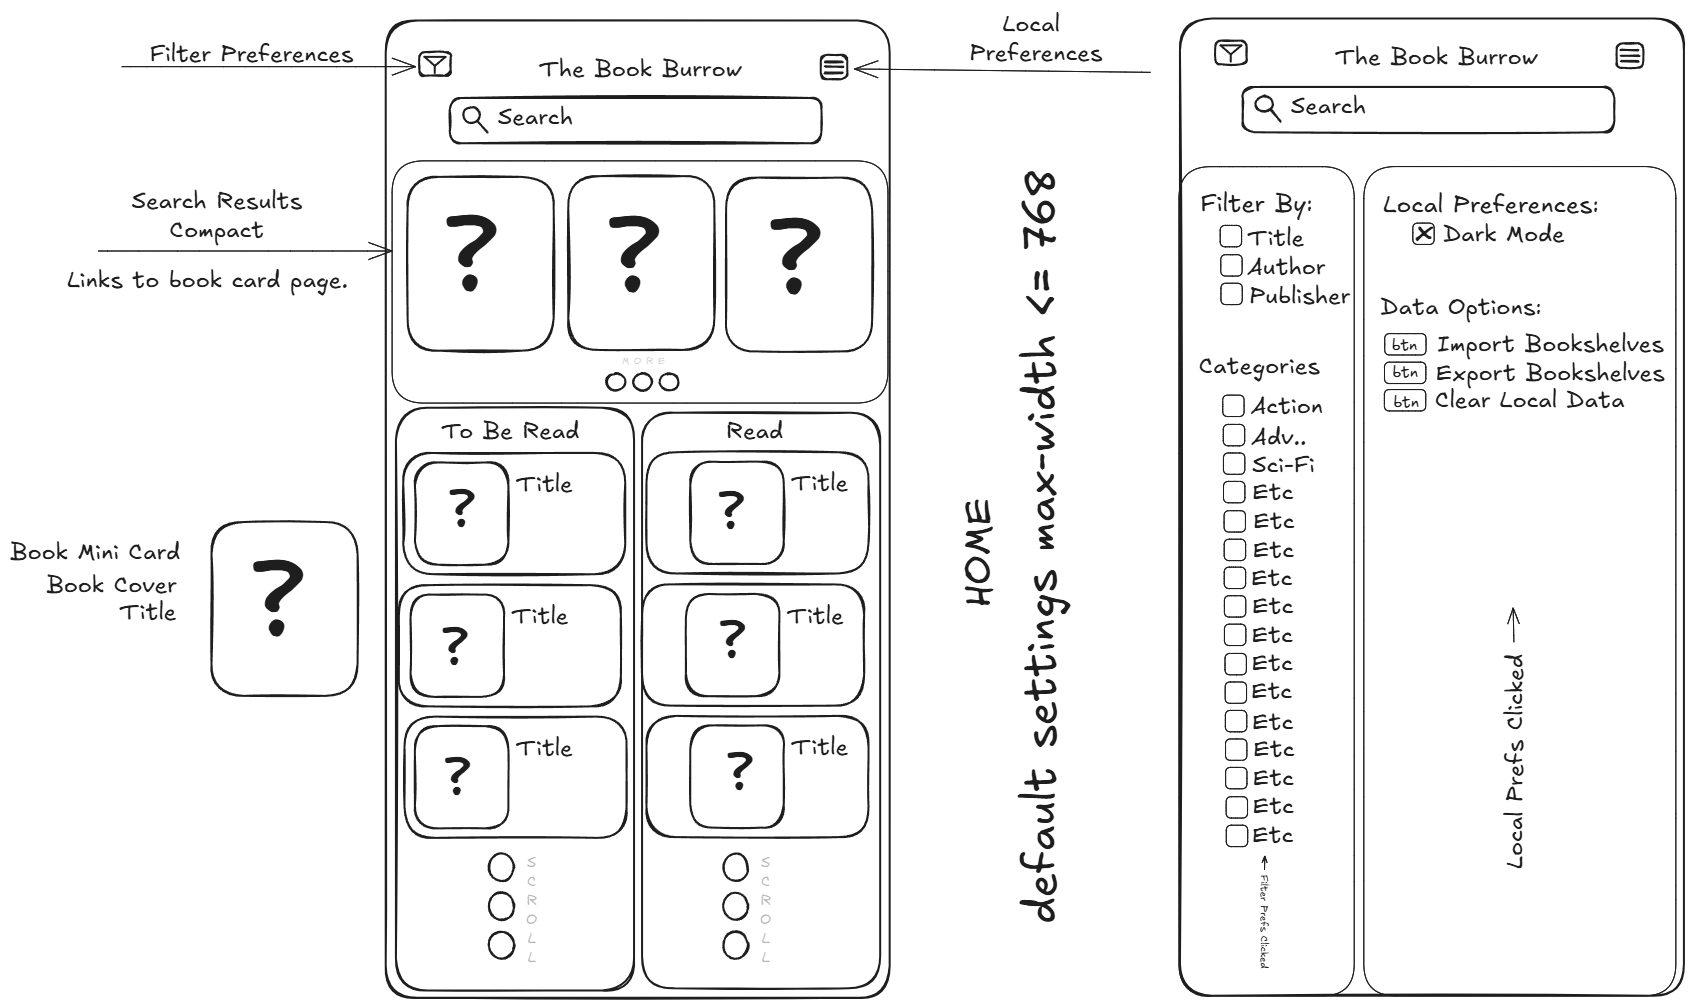
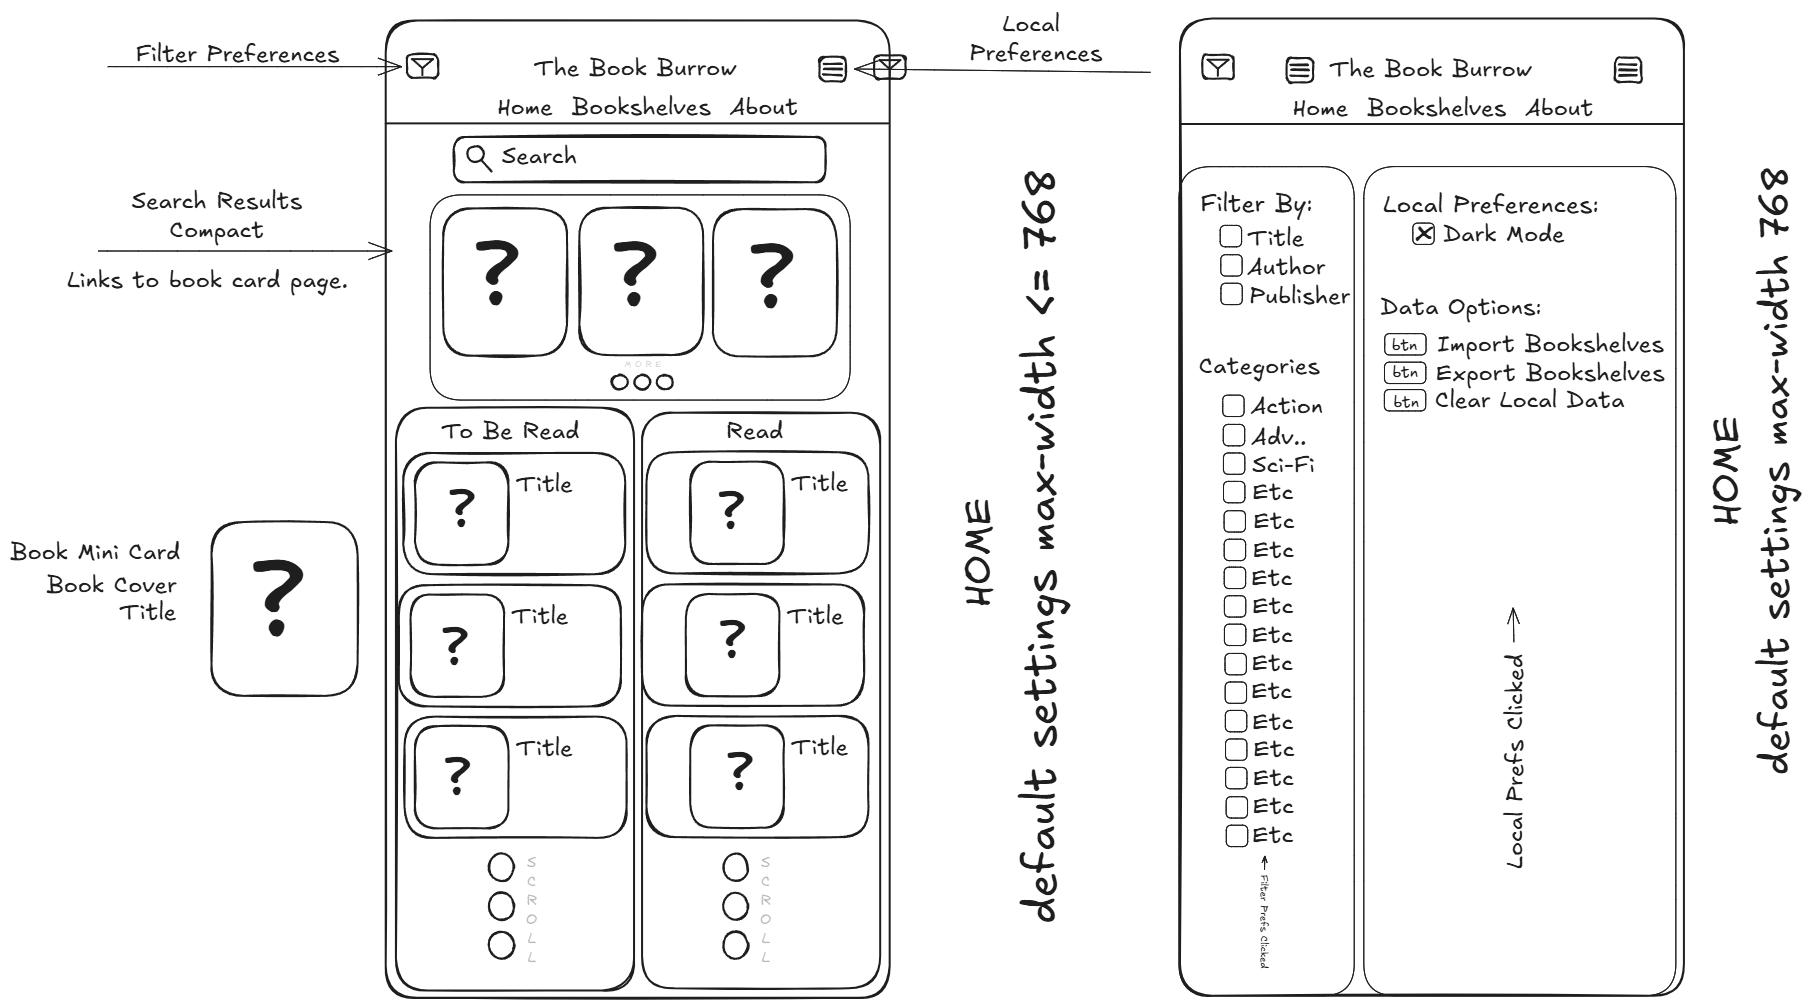
additional wireframes created for book card views

diff --git a/book-burrow/src/App.vue b/book-burrow/src/App.vue
@@ -1,8 +1,9 @@
 <template>
   <div class="header">
-    <h1>Welcome</h1>
+    <h1>The Book Burrow</h1>
     <nav class="nav-menu">
       <RouterLink to="/">Home</RouterLink>
+      <RouterLink to="/about">Bookshelf</RouterLink>
       <RouterLink to="/about">About</RouterLink>
     </nav>
   </div>
@@ -18,14 +19,18 @@
     display: flex;
     flex-direction: column;
     text-align: center;
-    margin: 0 10px;
+    margin: 0 0;
     width: 100%;
+    background-color: lightblue;
+    border-bottom: 2px solid black;
   }
 
   .nav-menu {
     display: flex;
     flex-direction: row;
     gap: 10px;
+    text-align: center;
     justify-content: center;
+    margin-bottom: 20px;
   }
 </style>

diff --git a/book-burrow/index.html b/book-burrow/index.html
@@ -4,10 +4,11 @@
     <meta charset="UTF-8" />
     <meta name="viewport" content="width=device-width, initial-scale=1.0" />
     <!-- <link rel="icon" href="/favicon.ico"> -->
-    <title>Vue App</title>
+    <title>The Book Burrow</title>
   </head>
   <body>
     <div id="app"></div>
     <script type="module" src="/src/main.js"></script>
+    <script src="https://kit.fontawesome.com/894ace69cc.js" crossorigin="anonymous"></script>
   </body>
 </html>

diff --git a/book-burrow/src/assets/global.css b/book-burrow/src/assets/global.css
@@ -3,5 +3,9 @@ body {
   box-sizing: border-box;
   margin: 0;
   padding: 0;
-  min-width: 360px;
+  width: 100%;
+  height: 100%;
+  background-image: url("./img/window-lit-library2.jpg");
+  background-repeat: no-repeat;
+  background-size: cover;
 }

diff --git a/book-burrow/src/views/HomeView.vue b/book-burrow/src/views/HomeView.vue
@@ -12,6 +12,8 @@
 
 <style scoped>
   .counter-container {
+    width: 100%;
+    height: 800px;
     justify-content: center;
     text-align: center;
   }

diff --git a/README.md b/README.md
@@ -7,5 +7,8 @@ The Book Burrow is a responsive website that allows the user to search for books
 Landing page wireframes for small, medium, and large screens is done.  Still need to make wireframes for bookshelf page and book details for when the user is on mobile instead of desktop.
 
 Vue 3 project created and cleaned up (removed default project).
-![Wireframes](./docs/wireframes/wireframes.png)
+
+Various wireframes created for different views and components.  Wireframes are located in the `./docs` folder.
+
+![Wireframes](./docs/wireframes/all-wireframes.png)
 
